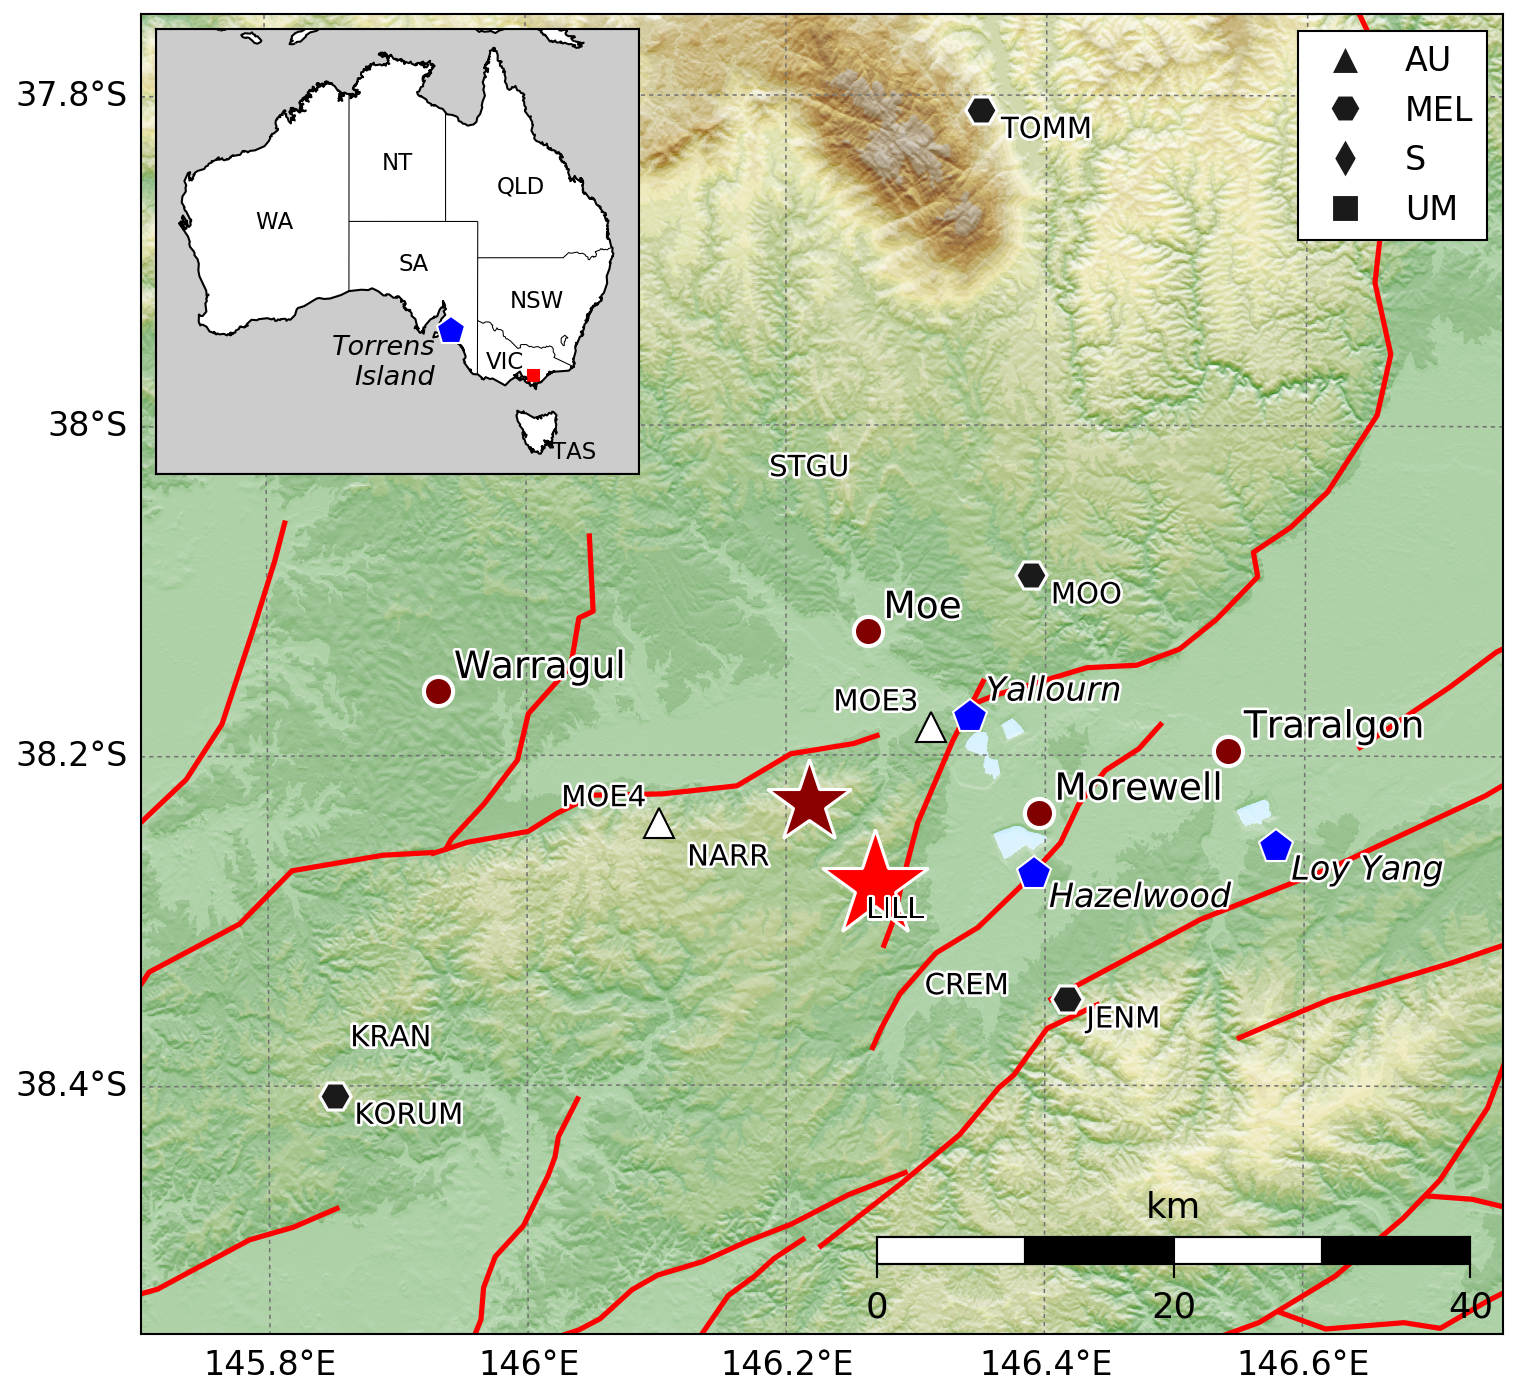
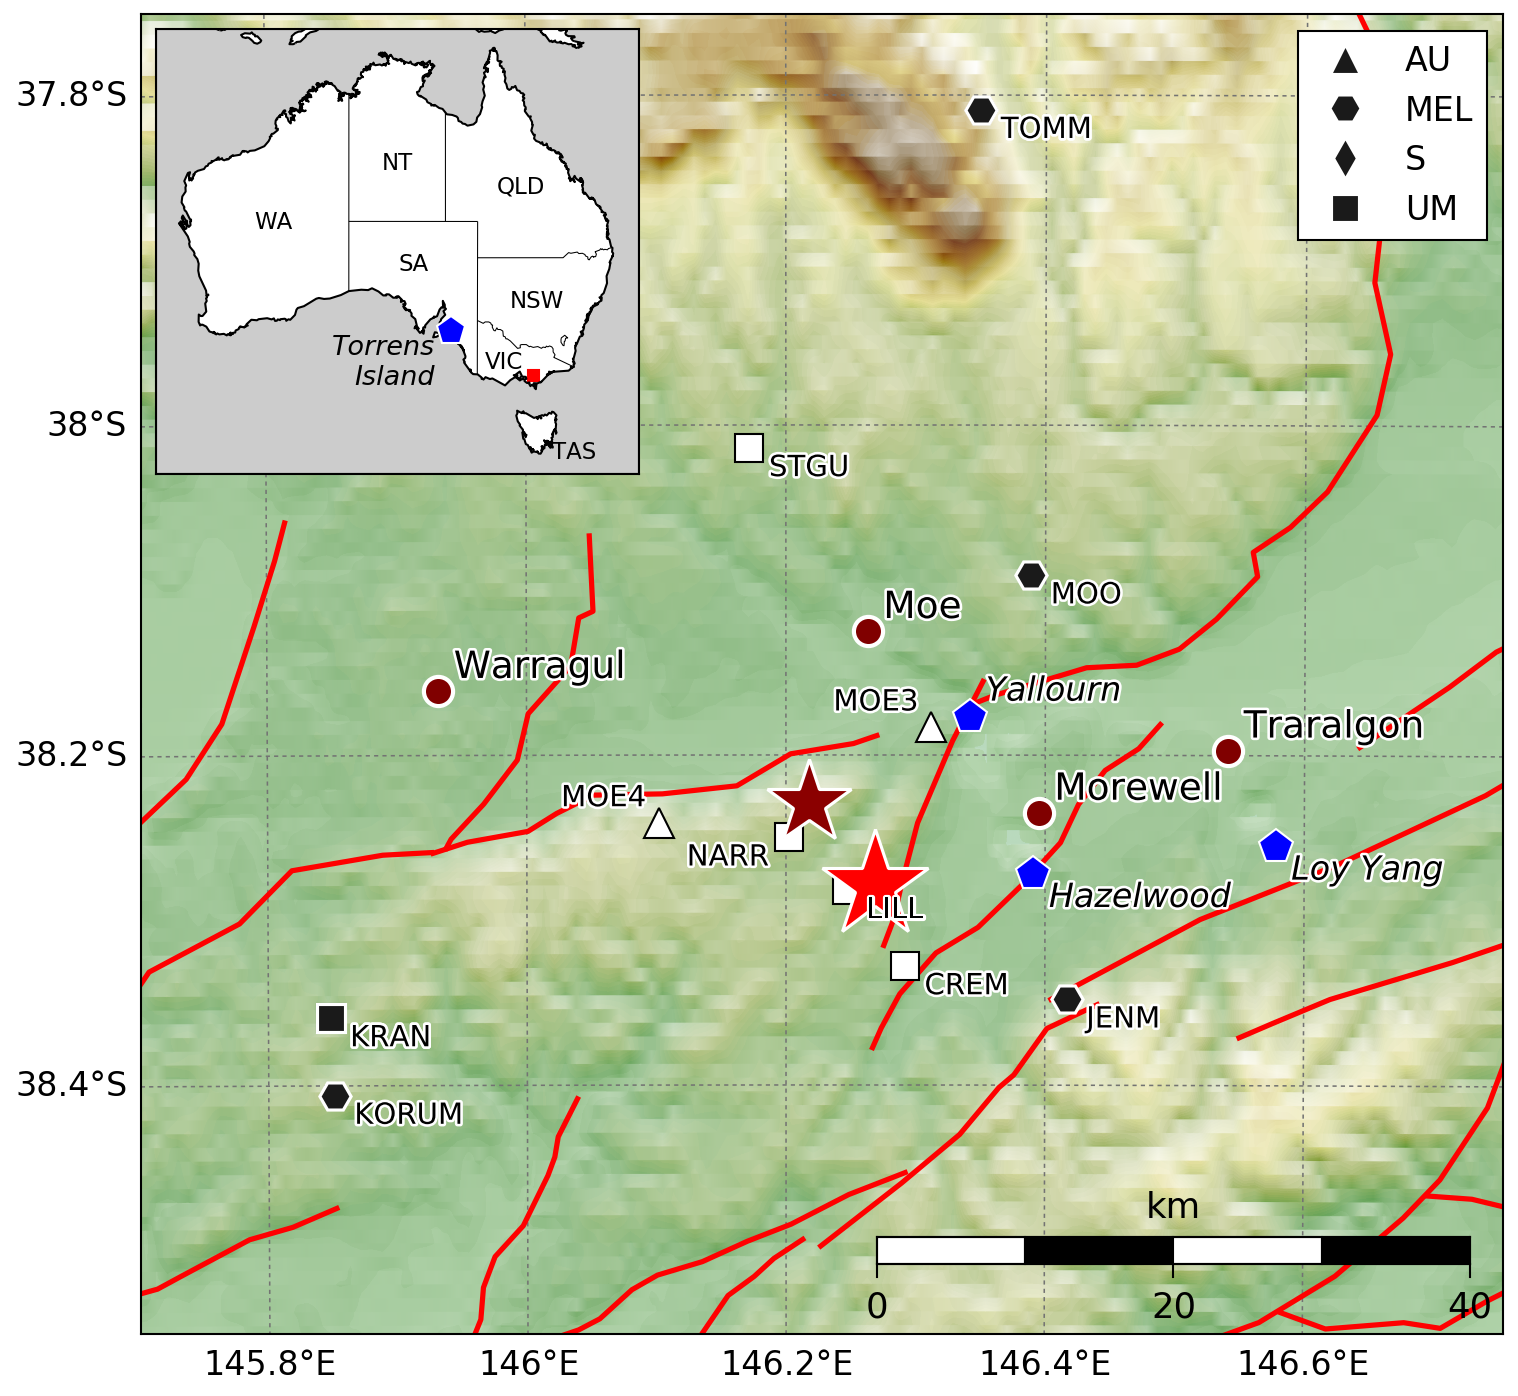
updating moe zoom map

diff --git a/2020/2012_moe_earthquake/make_moe_map_zoom.py b/2020/2012_moe_earthquake/make_moe_map_zoom.py
@@ -56,10 +56,10 @@ m.drawmapscale(146.5, -38.5, 146.5, -38.5, 40, fontsize = 17, barstyle='fancy', 
 ##########################################################################################
 # plot gebco
 ##########################################################################################
-
+'''
 print('Reading netCDF file...')
 if getcwd().startswith('/nas'):
-    netcdffile = 'srtm_66_20.grd'
+    netcdffile = 'topo/srtm_66_20.grd'
 else:
     netcdffile = '//Users//trev//Documents//DATA//SRTM03//srtm_66_20//srtm_66_20.grd'
 nc = NetCDFFile(netcdffile)
@@ -77,7 +77,7 @@ zscale =30. #colour
 data = nc.variables['z'][:] / zscale
 lons = nc.variables['lon'][:]
 lats = nc.variables['lat'][:]
-'''
+
 # transform to metres      
 nx = int((m.xmax-m.xmin)/30.)+1
 ny = int((m.ymax-m.ymin)/30.)+1
@@ -90,7 +90,8 @@ if getcwd().startswith('/nas'):
     cptfile = '/nas/active/ops/community_safety/ehp/georisk_earthquake/hazard/DATA/cpt/wiki-2.0.cpt'
 else:
     cptfile = '//Users//trev//Documents//DATA//GMT//cpt//wiki-2.0.cpt'
-cmap, zvals = cpt2colormap(cptfile, 30)
+cmap, zvals = cpt2colormap(cptfile, 117)
+print(len(zvals))
 cmap = remove_last_cmap_colour(cmap)
         
 # make shading
